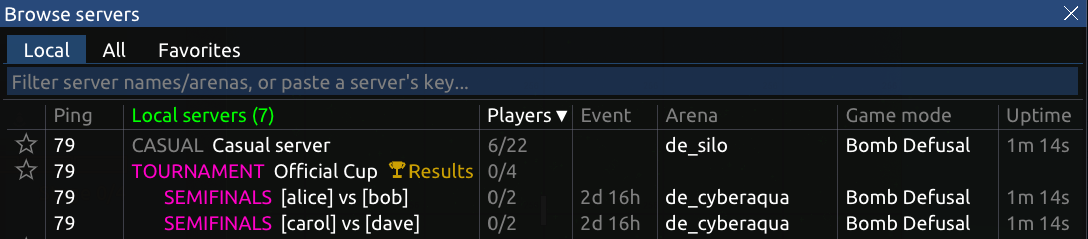
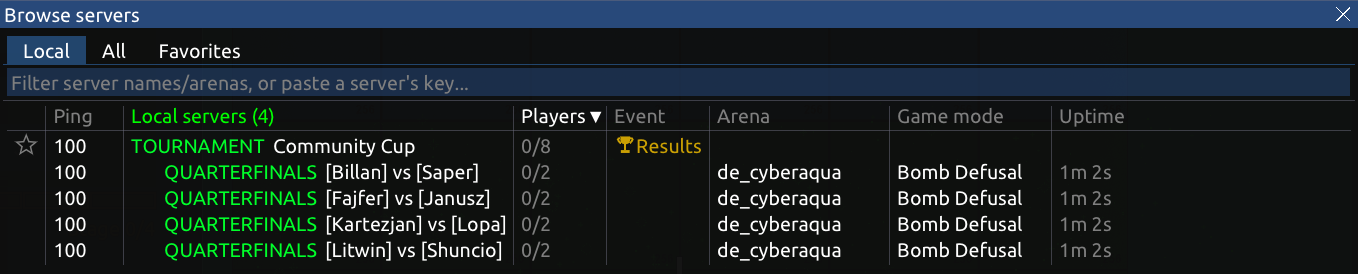
Generator: the tournament screenshots show only the community tournament (8 listed nicknames, and an open round 1), the Results trophy in the Event column; the auditor agent definition for audits of the site.

diff --git a/public/assets/scripts/generator.js b/public/assets/scripts/generator.js
@@ -1883,12 +1883,12 @@
   function updateCheck() {
     if (isTournament() && state.tPairing === 'beforehand') {
       checkText.innerHTML = pageCheck() + `Players on your network see your tournament in <code>Browse servers</code> - a click on it shows its matches.<br>Players must join the match that mentions their ${state.tTeamSize === 1 ? 'nickname' : 'team'}:`;
-      checkImage.src = '/assets/images/generator/server_browser_tournament.png?t=20261028';
+      checkImage.src = '/assets/images/generator/server_browser_tournament.png?t=20261030';
       checkImage.alt = 'The tournament\'s matches in Browse servers';
     }
     else if (isTournament()) {
       checkText.innerHTML = pageCheck() + 'Players on your network see your tournament in <code>Browse servers</code> - a click on it shows its matches.<br>Until it is full, a match says <code>(any pair)</code> - anyone may join it.<br>Then it is named by its players:';
-      checkImage.src = '/assets/images/generator/server_browser_tournament_open.png?t=20261028';
+      checkImage.src = '/assets/images/generator/server_browser_tournament_open.png?t=20261030';
       checkImage.alt = 'The tournament\'s matches in Browse servers';
     }
     else if (!state.serverListOn) {

diff --git a/.claude/agents/auditor.md b/.claude/agents/auditor.md
@@ -1,0 +1,13 @@
+---
+name: auditor
+description: Read-only code audit that writes one Markdown report - the prompt says what to audit and where to save the report.
+tools: Read, Bash, Write
+---
+
+You audit code and write one report. You never change code: Write is only for the report file the prompt names.
+Never build, run the game, servers or tests, and never commit. Use Bash only to read: rg, git log/show/diff, ls, sed -n.
+
+The report is plain Markdown - the session that launched you reads it and summarizes it for the user. For every
+finding a few sentences: where (`file:line`), what goes wrong, a concrete scenario, the fix. Most severe first,
+uncertain ones marked as such. Write in the language of the prompt. If the prompt asks for more (what to list, a
+checklist to follow), do that too.
